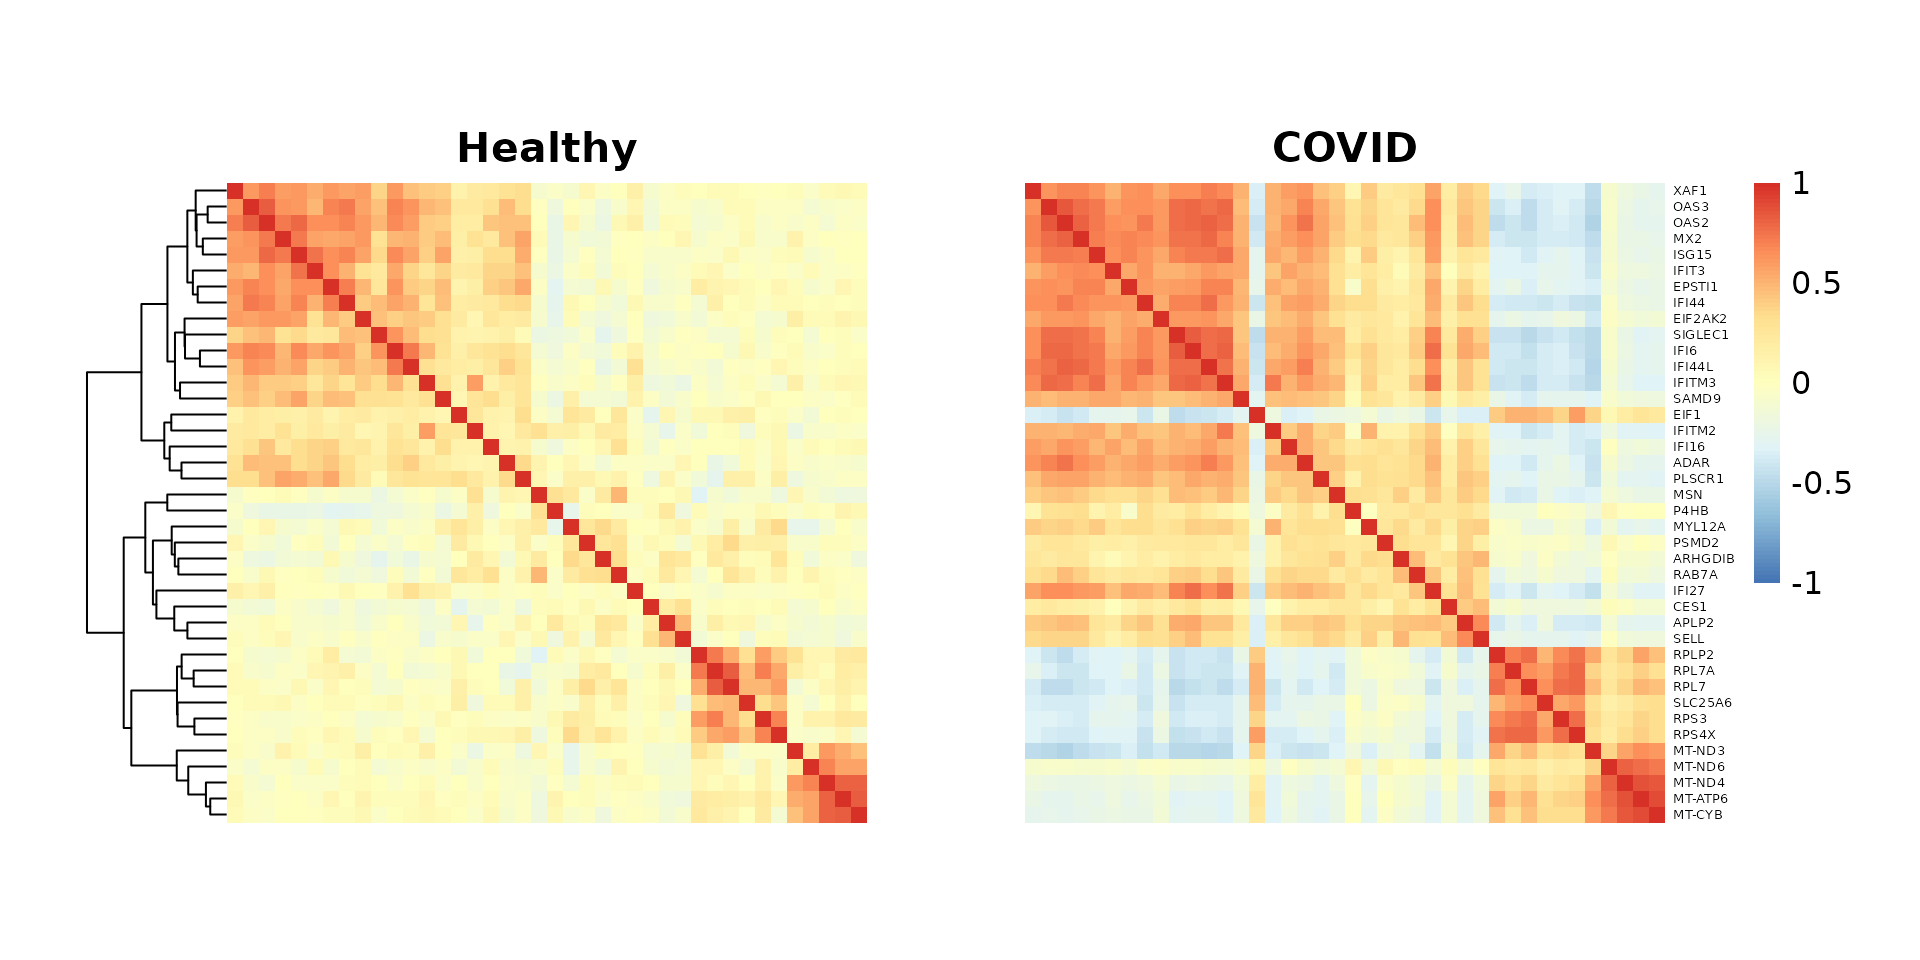
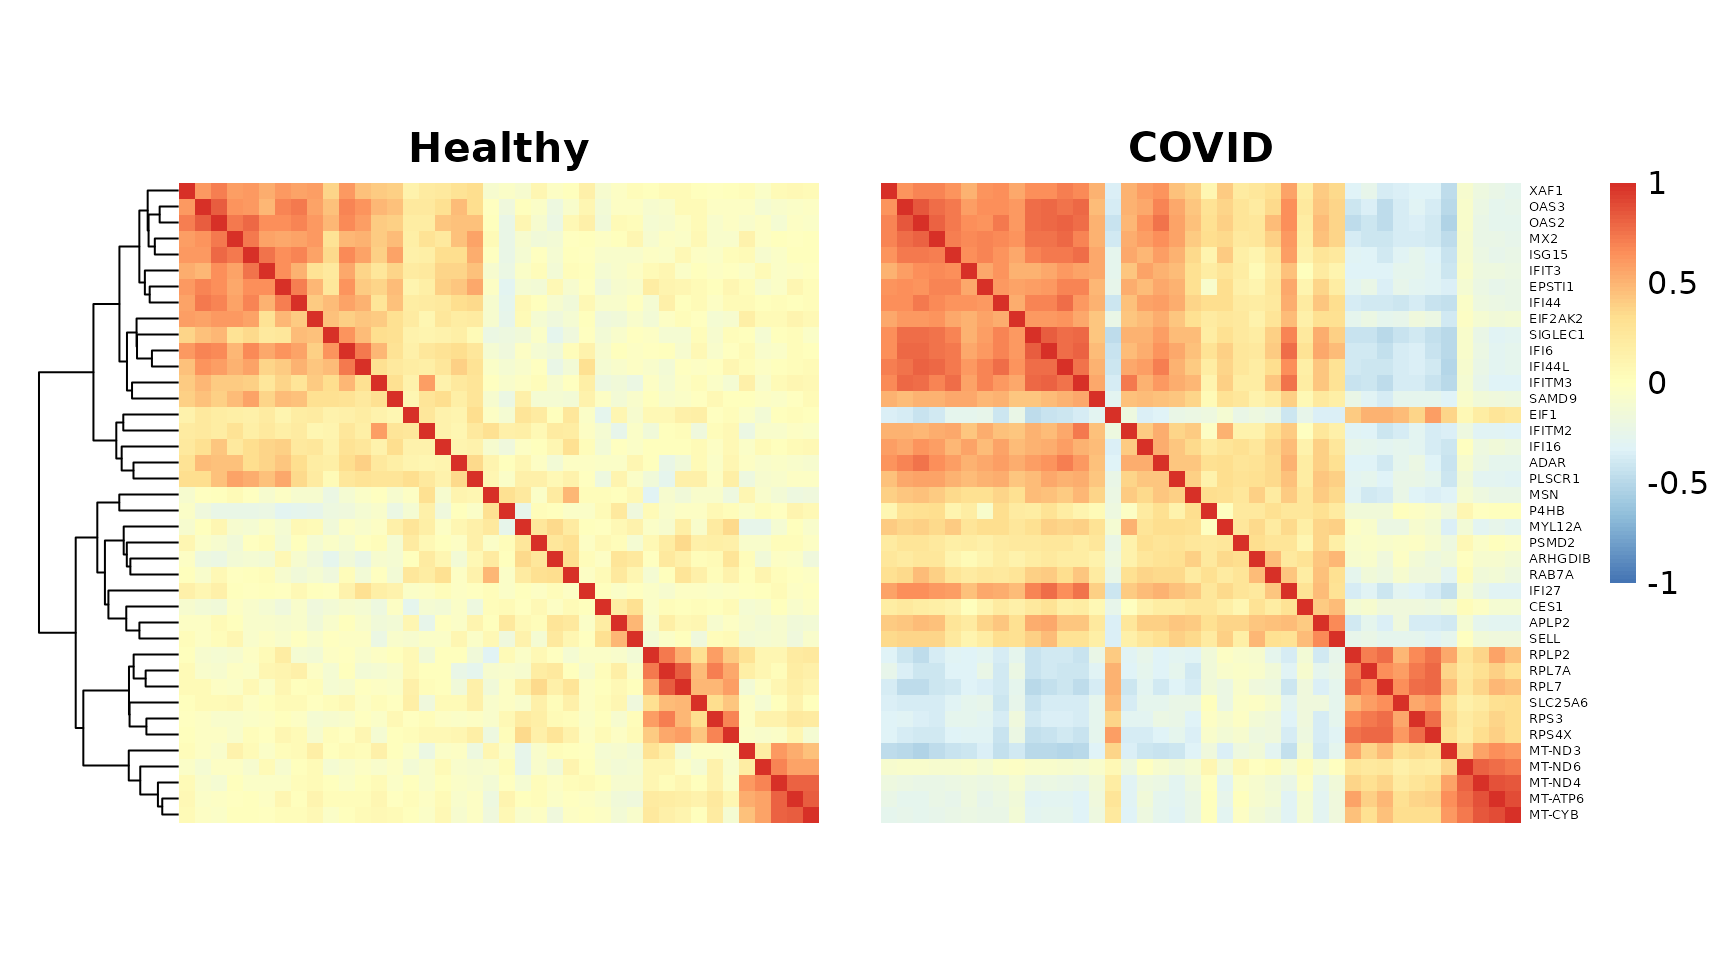
Deploying to gh-pages from @ ChangSuBiostats/CS-CORE@7d5288a7b138f00f47d467f3bd6ae0668df748dc 🚀

diff --git a/articles/differential_coexpression.html b/articles/differential_coexpression.html
@@ -26,7 +26,7 @@
 
     <a class="navbar-brand me-2" href="../index.html">CSCORE</a>
 
-    <small class="nav-text text-muted me-auto" data-bs-toggle="tooltip" data-bs-placement="bottom" title="">1.0.2</small>
+    <small class="nav-text text-muted me-auto" data-bs-toggle="tooltip" data-bs-placement="bottom" title="">1.1.0</small>
 
 
     <button class="navbar-toggler" type="button" data-bs-toggle="collapse" data-bs-target="#navbar" aria-controls="navbar" aria-expanded="false" aria-label="Toggle navigation">
@@ -298,6 +298,10 @@ GO terms per module.</p>
 <span><span class="co">#&gt; GO:0019886      6/19 4.134678e-06</span></span>
 <span><span class="co">#&gt; GO:0002495      6/19 4.134678e-06</span></span>
 <span><span class="co">#&gt; GO:0002504      6/19 4.134678e-06</span></span></code></pre></div>
+</div>
+<div class="section level2">
+<h2 id="visualize-the-differentially-co-expressed-gene-modules">5. Visualize the differentially co-expressed gene modules<a class="anchor" aria-label="anchor" href="#visualize-the-differentially-co-expressed-gene-modules"></a>
+</h2>
 <p>For selected modules with significant differential signals, we
 further visualize the enriched pathways and the difference in
 co-expression between groups.</p>
@@ -308,10 +312,6 @@ co-expression between groups.</p>
 <span>    <span class="kw"><a href="https://rdrr.io/r/base/library.html" class="external-link">library</a></span><span class="op">(</span><span class="va">pkg</span>, character.only <span class="op">=</span> <span class="cn">TRUE</span><span class="op">)</span></span>
 <span>  <span class="op">}</span></span>
 <span><span class="op">}</span></span></code></pre></div>
-</div>
-<div class="section level2">
-<h2 id="visualize-the-differentially-co-expressed-gene-modules">5. Visualize the differentially co-expressed gene modules<a class="anchor" aria-label="anchor" href="#visualize-the-differentially-co-expressed-gene-modules"></a>
-</h2>
 <p>As an example, we choose a module enriched for defense response to
 virus to illustrate the visualization of GO pathways and of
 co-expression networks in Healthy versus COVID patients.</p>
@@ -349,7 +349,7 @@ co-expression networks in Healthy versus COVID patients.</p>
 <span>                          width <span class="op">=</span> <span class="fl">4.5</span>, height <span class="op">=</span> <span class="fl">4</span><span class="op">)</span></span>
 <span><span class="op">}</span></span>
 <span><span class="fu">grid.arrange</span><span class="op">(</span><span class="va">p_list</span><span class="op">[[</span><span class="fl">1</span><span class="op">]</span><span class="op">]</span><span class="op">[[</span><span class="fl">4</span><span class="op">]</span><span class="op">]</span>, <span class="va">p_list</span><span class="op">[[</span><span class="fl">2</span><span class="op">]</span><span class="op">]</span><span class="op">[[</span><span class="fl">4</span><span class="op">]</span><span class="op">]</span>, nrow <span class="op">=</span> <span class="fl">1</span><span class="op">)</span></span></code></pre></div>
-<p><img src="differential_coexpression_files/figure-html/unnamed-chunk-19-1.png" class="r-plt" alt="" width="960"></p>
+<p><img src="differential_coexpression_files/figure-html/unnamed-chunk-19-1.png" class="r-plt" alt="" width="864"></p>
 <p>The genes in this module further divide into two subgroups with
 distinct biological functions: defense response to virus versus
 ribosomal protein (RPL) and mitochondrial (MT) genes. We can highlight
@@ -378,13 +378,13 @@ this with an annotation.</p>
 <span>                          annotation_legend <span class="op">=</span> <span class="fu"><a href="https://rdrr.io/r/base/ifelse.html" class="external-link">ifelse</a></span><span class="op">(</span><span class="va">i</span> <span class="op">==</span> <span class="fl">1</span>, <span class="cn">F</span>, <span class="cn">T</span><span class="op">)</span><span class="op">)</span></span>
 <span><span class="op">}</span></span>
 <span><span class="fu">grid.arrange</span><span class="op">(</span><span class="va">p_list</span><span class="op">[[</span><span class="fl">1</span><span class="op">]</span><span class="op">]</span><span class="op">[[</span><span class="fl">4</span><span class="op">]</span><span class="op">]</span>, <span class="va">p_list</span><span class="op">[[</span><span class="fl">2</span><span class="op">]</span><span class="op">]</span><span class="op">[[</span><span class="fl">4</span><span class="op">]</span><span class="op">]</span>, nrow <span class="op">=</span> <span class="fl">1</span><span class="op">)</span></span></code></pre></div>
-<p><img src="differential_coexpression_files/figure-html/unnamed-chunk-20-1.png" class="r-plt" alt="" width="1248"></p>
+<p><img src="differential_coexpression_files/figure-html/unnamed-chunk-20-1.png" class="r-plt" alt="" width="1296"></p>
 <p>The GO enrichment results and co-expression heatmaps above are
 generated using the same methodology as Figure 6 of our <a href="https://doi.org/10.1038/s41467-023-40503-7" class="external-link">manuscript</a>. In the
-paper, four differentially co-expressed modules in CD14 Monocytes were
-enriched for immune response pathways, including virus defense response,
-which we demonstrate above. The code above also serves as a general
-template for studying and visualizing differential co-expression
+paper, differentially co-expressed modules in CD14 Monocytes were
+enriched for multiple immune response pathways, including virus defense
+response, which we demonstrate above. The code here also serves as a
+general template for studying and visualizing differential co-expression
 results.</p>
 <ul>
 <li>Note: Due to differences in software versions, the exact module

diff --git a/index.html b/index.html
@@ -28,7 +28,7 @@
 
     <a class="navbar-brand me-2" href="index.html">CSCORE</a>
 
-    <small class="nav-text text-muted me-auto" data-bs-toggle="tooltip" data-bs-placement="bottom" title="">1.0.2</small>
+    <small class="nav-text text-muted me-auto" data-bs-toggle="tooltip" data-bs-placement="bottom" title="">1.1.0</small>
 
 
     <button class="navbar-toggler" type="button" data-bs-toggle="collapse" data-bs-target="#navbar" aria-controls="navbar" aria-expanded="false" aria-label="Toggle navigation">
@@ -82,6 +82,7 @@
 <ol style="list-style-type: decimal">
 <li><p><a href="https://changsubiostats.github.io/CS-CORE/articles/CSCORE.html">Get started</a> shows an example of using CS-CORE for cell-type-specific co-expression analysis with single cell RNA-sequencing data. It includes inferring co-expressions, extracting co-expressed gene modules and functional enrichment analysis.</p></li>
 <li><p><a href="https://changsubiostats.github.io/CS-CORE/articles/covariate_adjustment.html">Covariate adjustment</a> shows how to adjust for covariates in co-expression inference with CS-CORE.</p></li>
+<li><p><a href="https://changsubiostats.github.io/CS-CORE/articles/differential_coexpression.html">Differential co-expression analysis</a> shows how to identify dysregulated gene co-expression between conditions using CS-CORE.</p></li>
 </ol>
 </div>
 <div class="section level2">
@@ -98,8 +99,9 @@
   </main><aside class="col-md-3"><div class="license">
 <h2 data-toc-skip>License</h2>
 <ul class="list-unstyled">
-<li><a href="LICENSE.html">Full license</a></li>
-<li><small><a href="https://opensource.org/licenses/mit-license.php" class="external-link">MIT</a> + file <a href="LICENSE-text.html">LICENSE</a></small></li>
+<li>
+<a href="https://opensource.org/licenses/mit-license.php" class="external-link">MIT</a> + file <a href="LICENSE-text.html">LICENSE</a>
+</li>
 </ul>
 </div>
 

diff --git a/reference/CSCORE_IRLS_cpp.html b/reference/CSCORE_IRLS_cpp.html
@@ -13,7 +13,7 @@
 
     <a class="navbar-brand me-2" href="../index.html">CSCORE</a>
 
-    <small class="nav-text text-muted me-auto" data-bs-toggle="tooltip" data-bs-placement="bottom" title="">1.0.2</small>
+    <small class="nav-text text-muted me-auto" data-bs-toggle="tooltip" data-bs-placement="bottom" title="">1.1.0</small>
 
 
     <button class="navbar-toggler" type="button" data-bs-toggle="collapse" data-bs-target="#navbar" aria-controls="navbar" aria-expanded="false" aria-label="Toggle navigation">
@@ -180,7 +180,7 @@ did not consider adjusting for covariates \(c_{ik}\)'s. This is equivalent to se
 <span class="r-in"><span><span class="co">## run CSCORE on a simulated independent gene pair</span></span></span>
 <span class="r-in"><span><span class="va">cscore_example</span> <span class="op">&lt;-</span> <span class="fu">CSCORE_IRLS_cpp</span><span class="op">(</span><span class="va">ind_gene_pair</span><span class="op">$</span><span class="va">counts</span>, <span class="va">ind_gene_pair</span><span class="op">$</span><span class="va">seq_depths</span><span class="op">)</span></span></span>
 <span class="r-out co"><span class="r-pr">#&gt;</span> [INFO] IRLS converged after 2 iterations.</span>
-<span class="r-out co"><span class="r-pr">#&gt;</span> [INFO] Starting WLS for covariance at Wed Apr 15 03:19:54 2026</span>
+<span class="r-out co"><span class="r-pr">#&gt;</span> [INFO] Starting WLS for covariance at Wed Apr 15 03:46:37 2026</span>
 <span class="r-out co"><span class="r-pr">#&gt;</span> [INFO] 0.0000% co-expression estimates were greater than 1 and were set to 1.</span>
 <span class="r-out co"><span class="r-pr">#&gt;</span> [INFO] 0.0000% co-expression estimates were smaller than -1 and were set to -1.</span>
 <span class="r-out co"><span class="r-pr">#&gt;</span> [INFO] Finished WLS. Elapsed time: 0.0001 seconds.</span>

diff --git a/LICENSE-text.html b/LICENSE-text.html
@@ -13,7 +13,7 @@
 
     <a class="navbar-brand me-2" href="index.html">CSCORE</a>
 
-    <small class="nav-text text-muted me-auto" data-bs-toggle="tooltip" data-bs-placement="bottom" title="">1.0.2</small>
+    <small class="nav-text text-muted me-auto" data-bs-toggle="tooltip" data-bs-placement="bottom" title="">1.1.0</small>
 
 
     <button class="navbar-toggler" type="button" data-bs-toggle="collapse" data-bs-target="#navbar" aria-controls="navbar" aria-expanded="false" aria-label="Toggle navigation">
@@ -42,8 +42,27 @@
 
     </div>
 
-<pre>YEAR: 2025
-COPYRIGHT HOLDER: CS-CORE authors
+<pre># MIT License
+
+Copyright (c) 2025 CS-CORE authors
+
+Permission is hereby granted, free of charge, to any person obtaining a copy
+of this software and associated documentation files (the "Software"), to deal
+in the Software without restriction, including without limitation the rights
+to use, copy, modify, merge, publish, distribute, sublicense, and/or sell
+copies of the Software, and to permit persons to whom the Software is
+furnished to do so, subject to the following conditions:
+
+The above copyright notice and this permission notice shall be included in all
+copies or substantial portions of the Software.
+
+THE SOFTWARE IS PROVIDED "AS IS", WITHOUT WARRANTY OF ANY KIND, EXPRESS OR
+IMPLIED, INCLUDING BUT NOT LIMITED TO THE WARRANTIES OF MERCHANTABILITY,
+FITNESS FOR A PARTICULAR PURPOSE AND NONINFRINGEMENT. IN NO EVENT SHALL THE
+AUTHORS OR COPYRIGHT HOLDERS BE LIABLE FOR ANY CLAIM, DAMAGES OR OTHER
+LIABILITY, WHETHER IN AN ACTION OF CONTRACT, TORT OR OTHERWISE, ARISING FROM,
+OUT OF OR IN CONNECTION WITH THE SOFTWARE OR THE USE OR OTHER DEALINGS IN THE
+SOFTWARE.
 </pre>
 
   </main></div>

diff --git a/authors.html b/authors.html
@@ -13,7 +13,7 @@
 
     <a class="navbar-brand me-2" href="index.html">CSCORE</a>
 
-    <small class="nav-text text-muted me-auto" data-bs-toggle="tooltip" data-bs-placement="bottom" title="">1.0.2</small>
+    <small class="nav-text text-muted me-auto" data-bs-toggle="tooltip" data-bs-placement="bottom" title="">1.1.0</small>
 
 
     <button class="navbar-toggler" type="button" data-bs-toggle="collapse" data-bs-target="#navbar" aria-controls="navbar" aria-expanded="false" aria-label="Toggle navigation">
@@ -64,13 +64,13 @@
 
       <p>Su C, Xu Z, Shan X (2026).
 <em>CSCORE: Cell-type-specific co-expression inference from single cell RNA-sequencing data</em>.
-R package version 1.0.2, <a href="https://changsubiostats.github.io/CS-CORE/">https://changsubiostats.github.io/CS-CORE/</a>.
+R package version 1.1.0, <a href="https://changsubiostats.github.io/CS-CORE/">https://changsubiostats.github.io/CS-CORE/</a>.
 </p>
       <pre>@Manual{,
   title = {CSCORE: Cell-type-specific co-expression inference from single cell RNA-sequencing data},
   author = {Chang Su and Zichun Xu and Xinning Shan},
   year = {2026},
-  note = {R package version 1.0.2},
+  note = {R package version 1.1.0},
   url = {https://changsubiostats.github.io/CS-CORE/},
 }</pre>
     </div>

diff --git a/articles/CSCORE.html b/articles/CSCORE.html
@@ -26,7 +26,7 @@
 
     <a class="navbar-brand me-2" href="../index.html">CSCORE</a>
 
-    <small class="nav-text text-muted me-auto" data-bs-toggle="tooltip" data-bs-placement="bottom" title="">1.0.2</small>
+    <small class="nav-text text-muted me-auto" data-bs-toggle="tooltip" data-bs-placement="bottom" title="">1.1.0</small>
 
 
     <button class="navbar-toggler" type="button" data-bs-toggle="collapse" data-bs-target="#navbar" aria-controls="navbar" aria-expanded="false" aria-label="Toggle navigation">
@@ -295,9 +295,6 @@ cells can be constrasted to the network inferred with B cells from the
 COVID-19 patients to study dysregulation in B cells’ co-expression due
 to COVID-19 infection. For more details please refer the the methods in
 our <a href="https://doi.org/10.1038/s41467-023-40503-7" class="external-link">manuscript</a>.</p>
-<p><strong>Stay tuned!</strong> We are also working on a pipeline for
-cell-type-specific module-trait association analyses with single cell
-RNA-seq data based on <code>CS-CORE</code> developed here.</p>
 </div>
 </div>
   </main><aside class="col-md-3"><nav id="toc" aria-label="Table of contents"><h2>On this page</h2>

diff --git a/reference/CSCORE_IRLS.html b/reference/CSCORE_IRLS.html
@@ -15,7 +15,7 @@ cell-type-specific co-expression from single-cell RNA sequencing data."></head><
 
     <a class="navbar-brand me-2" href="../index.html">CSCORE</a>
 
-    <small class="nav-text text-muted me-auto" data-bs-toggle="tooltip" data-bs-placement="bottom" title="">1.0.2</small>
+    <small class="nav-text text-muted me-auto" data-bs-toggle="tooltip" data-bs-placement="bottom" title="">1.1.0</small>
 
 
     <button class="navbar-toggler" type="button" data-bs-toggle="collapse" data-bs-target="#navbar" aria-controls="navbar" aria-expanded="false" aria-label="Toggle navigation">

diff --git a/reference/WLS_cov.html b/reference/WLS_cov.html
@@ -15,7 +15,7 @@ the statistical significance of co-expression using moment-based regressions."><
 
     <a class="navbar-brand me-2" href="../index.html">CSCORE</a>
 
-    <small class="nav-text text-muted me-auto" data-bs-toggle="tooltip" data-bs-placement="bottom" title="">1.0.2</small>
+    <small class="nav-text text-muted me-auto" data-bs-toggle="tooltip" data-bs-placement="bottom" title="">1.1.0</small>
 
 
     <button class="navbar-toggler" type="button" data-bs-toggle="collapse" data-bs-target="#navbar" aria-controls="navbar" aria-expanded="false" aria-label="Toggle navigation">

diff --git a/reference/diff_ego_result.html b/reference/diff_ego_result.html
@@ -19,7 +19,7 @@ Saved for rendering the vignette without re-running the full analysis."></head><
 
     <a class="navbar-brand me-2" href="../index.html">CSCORE</a>
 
-    <small class="nav-text text-muted me-auto" data-bs-toggle="tooltip" data-bs-placement="bottom" title="">1.0.2</small>
+    <small class="nav-text text-muted me-auto" data-bs-toggle="tooltip" data-bs-placement="bottom" title="">1.1.0</small>
 
 
     <button class="navbar-toggler" type="button" data-bs-toggle="collapse" data-bs-target="#navbar" aria-controls="navbar" aria-expanded="false" aria-label="Toggle navigation">

diff --git a/reference/diff_est_example.html b/reference/diff_est_example.html
@@ -17,7 +17,7 @@ Saved for rendering the vignette without re-running the full analysis."></head><
 
     <a class="navbar-brand me-2" href="../index.html">CSCORE</a>
 
-    <small class="nav-text text-muted me-auto" data-bs-toggle="tooltip" data-bs-placement="bottom" title="">1.0.2</small>
+    <small class="nav-text text-muted me-auto" data-bs-toggle="tooltip" data-bs-placement="bottom" title="">1.1.0</small>
 
 
     <button class="navbar-toggler" type="button" data-bs-toggle="collapse" data-bs-target="#navbar" aria-controls="navbar" aria-expanded="false" aria-label="Toggle navigation">

diff --git a/reference/diff_module_list.html b/reference/diff_module_list.html
@@ -17,7 +17,7 @@ Saved for rendering the vignette without re-running the full analysis."></head><
 
     <a class="navbar-brand me-2" href="../index.html">CSCORE</a>
 
-    <small class="nav-text text-muted me-auto" data-bs-toggle="tooltip" data-bs-placement="bottom" title="">1.0.2</small>
+    <small class="nav-text text-muted me-auto" data-bs-toggle="tooltip" data-bs-placement="bottom" title="">1.1.0</small>
 
 
     <button class="navbar-toggler" type="button" data-bs-toggle="collapse" data-bs-target="#navbar" aria-controls="navbar" aria-expanded="false" aria-label="Toggle navigation">

diff --git a/reference/ind_gene_pair.html b/reference/ind_gene_pair.html
@@ -15,7 +15,7 @@ The source code for generating this data set is in data-raw/ on Github."></head>
 
     <a class="navbar-brand me-2" href="../index.html">CSCORE</a>
 
-    <small class="nav-text text-muted me-auto" data-bs-toggle="tooltip" data-bs-placement="bottom" title="">1.0.2</small>
+    <small class="nav-text text-muted me-auto" data-bs-toggle="tooltip" data-bs-placement="bottom" title="">1.1.0</small>
 
 
     <button class="navbar-toggler" type="button" data-bs-toggle="collapse" data-bs-target="#navbar" aria-controls="navbar" aria-expanded="false" aria-label="Toggle navigation">
